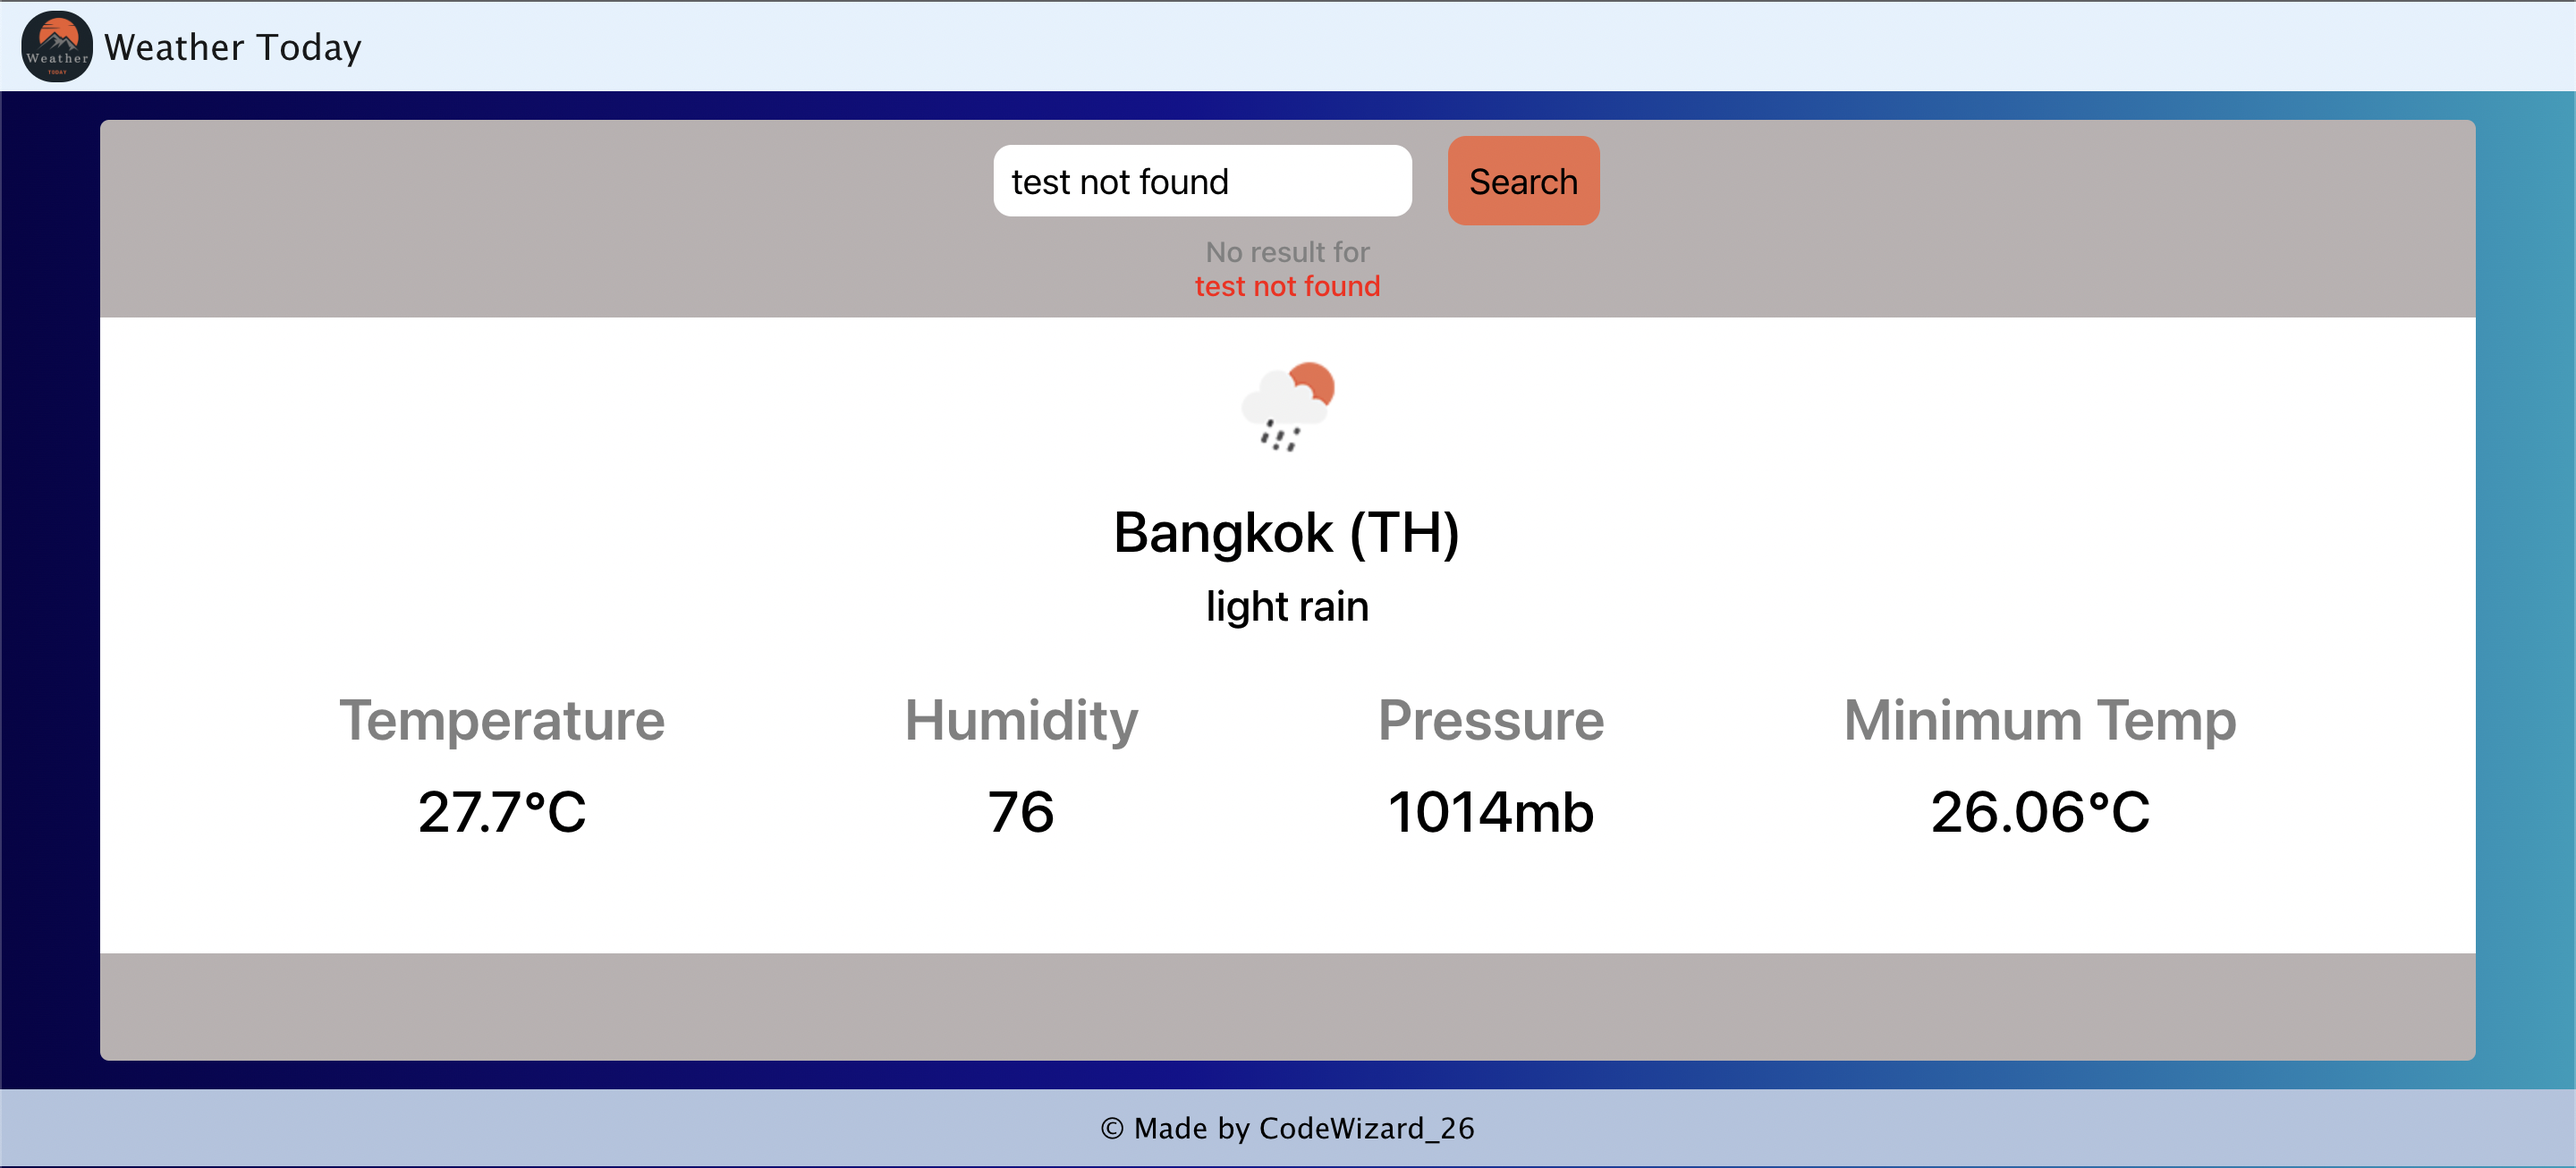
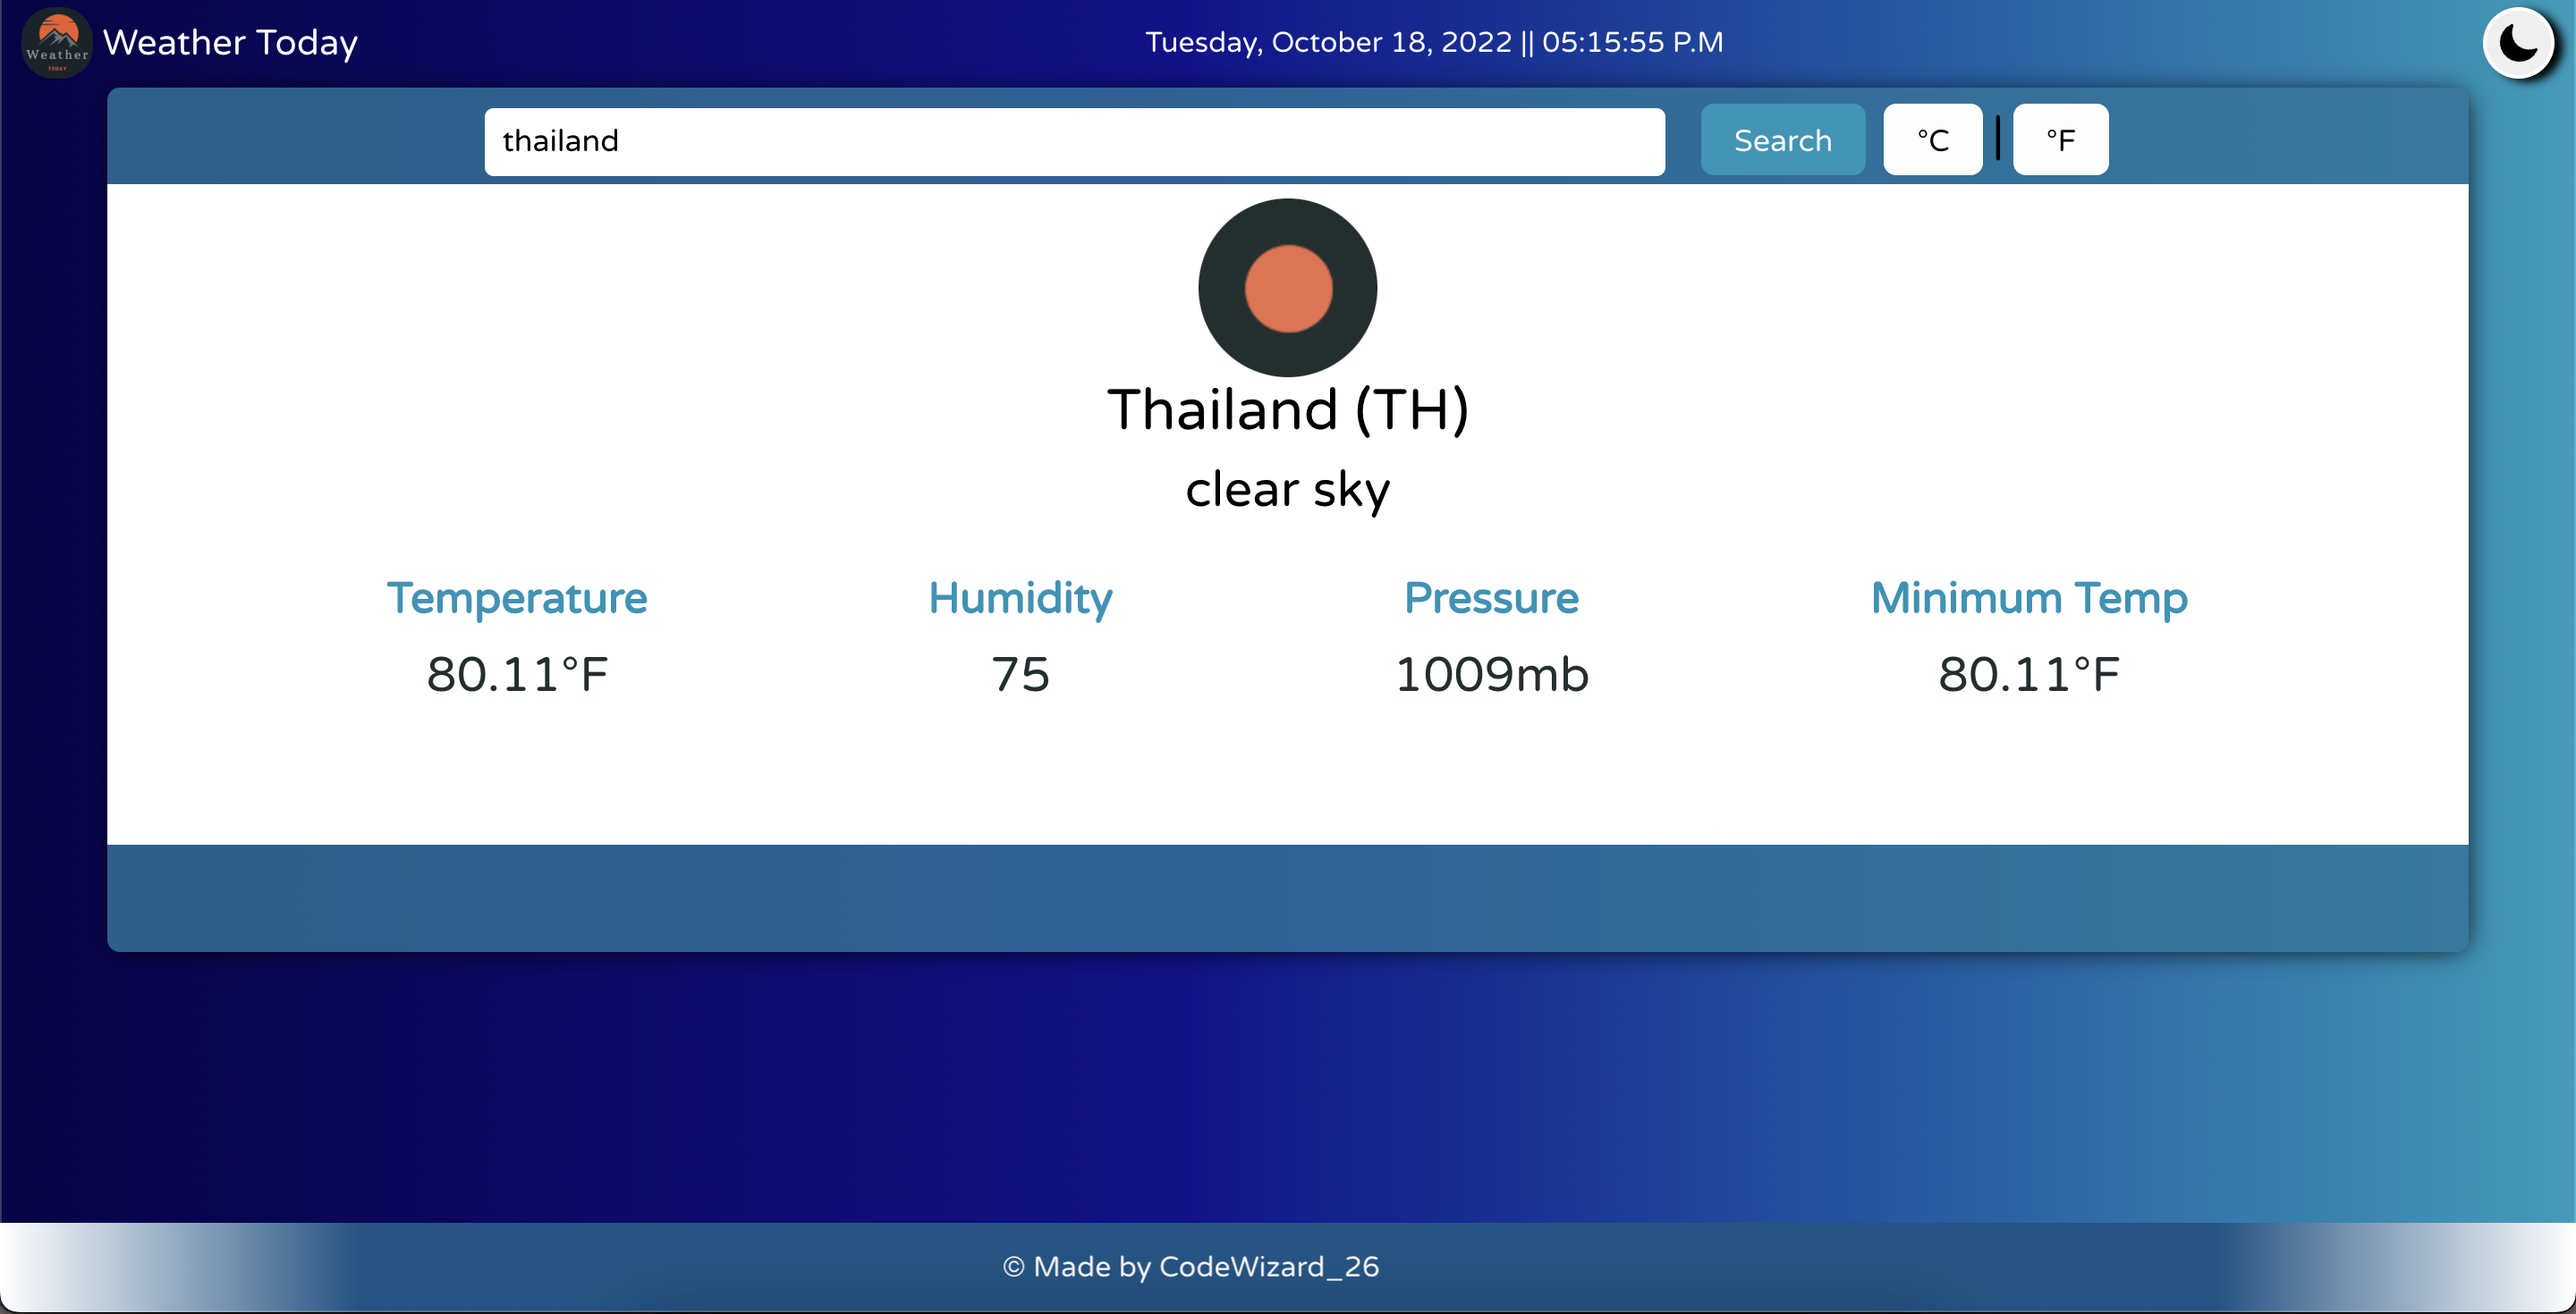
feat: can switch units system

diff --git a/src/components/WeatherData.js b/src/components/WeatherData.js
@@ -1,53 +1,63 @@
-import React from "react";
-import { useModeContext } from "../contexts/mode";
+import React from "react"
+import { useModeContext } from "../contexts/mode"
+
+const unit = {
+	metric: '°C',
+	imperial: '°F'
+}
+
 
 const WeatherData = (props) => {
 	const {
-		city,
+		WeatherData,
+		unitSystem
+	} = props
+	const { city,
 		icon,
 		country,
 		description,
 		temperature,
 		humidity,
 		pressure,
-		min_temp,
-	} = props.WeatherData;
-	const {mode} = useModeContext();
+		min_temp } = WeatherData
+	const { mode } = useModeContext()
+
+	const renderUnit = () => unit[unitSystem] ?? '-'
 
 	return (
-		<div className={`${mode?'dark data-mb':'data data-mb'} `}>
+		<div className={`${mode ? 'dark data-mb' : 'data data-mb'} `}>
 			<img
-				className={`${mode?'dark-img':'dataIcon'}`}
+				className={`${mode ? 'dark-img' : 'dataIcon'}`}
 				alt="icon"
-				src={"http://openweathermap.org/img/wn/" + icon + "@2x.png" }
+				src={"http://openweathermap.org/img/wn/" + icon + "@2x.png"}
 			></img>
 
 			<h1 className="location">
 				{city} ({country})
 			</h1>
 
-			<h3 className={`${mode?'dark':''}`}>{description}</h3>
+			<h3 className={`${mode ? 'dark' : ''}`}>{description}</h3>
 
 			<div className="weather-description">
 				<div>
 					<h3 >Temperature</h3>
-					<p className={`${mode?'dark-text':'value'}`}>{temperature}°C</p>
+					<p className={`${mode ? 'dark-text' : 'value'}`}>{temperature}{renderUnit()}</p>
 				</div>
 				<div>
 					<h3>Humidity</h3>
-					<p className={`${mode?'dark-text':'value'}`}>{humidity}</p>
+					<p className={`${mode ? 'dark-text' : 'value'}`}>{humidity}</p>
 				</div>
 				<div>
 					<h3>Pressure</h3>
-					<p className={`${mode?'dark-text':'value'}`}>{pressure}mb</p>
+					<p className={`${mode ? 'dark-text' : 'value'}`}>{pressure}mb</p>
 				</div>
 				<div>
 					<h3>Minimum Temp</h3>
-					<p className={`${mode?'dark-text':'value'}`}>{min_temp}°C</p>
+					<p className={`${mode ? 'dark-text' : 'value'}`}>{min_temp}{renderUnit()}</p>
 				</div>
 			</div>
 		</div>
-	);
-};
+	)
+}
 
-export default WeatherData;
+export default WeatherData

diff --git a/src/App.js b/src/App.js
@@ -27,11 +27,12 @@ function App() {
 	const [isNoResult, setIsNoResult] = useState(false);
 	const [loading, setLoading] = useState(false);
 	const [dateAndTime, setDateAndTime] = useState("");
+	const [unitSystem, setUnitSystem] = useState('metric')
 	const { location: currentLocation, error: currentError } = useCurrentLocation(geolocationOptions);
 
 	useEffect(() => {
-		if (search) fetchData();
-	}, []);
+		if (search && unitSystem) fetchData(search);
+	}, [unitSystem]);
 
 	useEffect(() => {
 		console.log(currentLocation, currentError)
@@ -52,7 +53,7 @@ function App() {
 			setLoading(true);
 			if (isNoResult) setIsNoResult(false);
 			const result = await axios.get(
-				`https://api.openweathermap.org/data/2.5/weather?lat=${currentLocation.latitude}&lon=${currentLocation.longitude}&units=metric&appid=${APIKEY}`
+				`https://api.openweathermap.org/data/2.5/weather?lat=${currentLocation.latitude}&lon=${currentLocation.longitude}&units=${unitSystem}&appid=${APIKEY}`
 			);
 
 			await setAllData({
@@ -81,7 +82,7 @@ function App() {
 			setLoading(true);
 			if (isNoResult) setIsNoResult(false);
 			const result = await axios.get(
-				`https://api.openweathermap.org/data/2.5/weather?q=${city}&units=metric&appid=${APIKEY}`
+				`https://api.openweathermap.org/data/2.5/weather?q=${city}&units=${unitSystem}&appid=${APIKEY}`
 			);
 
 			await setAllData({
@@ -147,6 +148,7 @@ function App() {
 								handleChange={handleChange}
 								search={search}
 								handleSubmit={handleSubmit}
+								setUnitSystem={setUnitSystem}
 							/>
 
 							{isNoResult && notFoundSearch && !invalidSearch && (
@@ -154,7 +156,7 @@ function App() {
 							)}
 
 							{invalidSearch && <h6 className="notFoundText">{invalidSearch}</h6>}
-							<WeatherData WeatherData={allData} />
+							<WeatherData WeatherData={allData} unitSystem={unitSystem} />
 						</div>
 					</section>
 				</div>

diff --git a/src/components/InputForm.js b/src/components/InputForm.js
@@ -1,32 +1,41 @@
-import React from "react";
-import { useModeContext } from "../contexts/mode";
+import React from "react"
+import { useModeContext } from "../contexts/mode"
 
 const InputForm = (props) => {
-	const { loading, handleChange, search, handleSubmit } = props;
-	const {mode,setMode} = useModeContext();
+	const { loading, handleChange, search, handleSubmit, setUnitSystem } = props
+	const { mode } = useModeContext()
 
 	return (
-		<form className={`${mode?'dark':''} "locationForm"` }>
-			<input
-				disabled={loading}
-				className={`${mode?'dark dark-text':''} input`}
-				type="text"
-				placeholder="Location"
-				onChange={handleChange}
-				name="city"
-				value={search}
-				
-			></input>
-			<button
-				className="button"
-				type="submit"
-				htmlFor="city"
-				onClick={handleSubmit}
-			>
-				{loading ? "Searching..." : "Search"}
-			</button>
-		</form>
-	);
-};
+		<>
+			<form className={`${mode ? 'dark' : ''} "locationForm"`}>
+				<input
+					disabled={loading}
+					className={`${mode ? 'dark dark-text' : ''} input`}
+					type="text"
+					placeholder="Location"
+					onChange={handleChange}
+					name="city"
+					value={search}
 
-export default InputForm;
+				></input>
+				<button
+					className="button"
+					type="submit"
+					htmlFor="city"
+					onClick={handleSubmit}
+				>
+					{loading ? "Searching..." : "Search"}
+				</button>
+				<button disabled={!search} className="button-system" type="button" onClick={() => setUnitSystem('metric')}>
+					°C
+				</button>
+				|
+				<button disabled={!search} className="button-system" type="button" onClick={() => setUnitSystem('imperial')}>
+					°F
+				</button>
+			</form>
+		</>
+	)
+}
+
+export default InputForm

diff --git a/src/contexts/mode.js b/src/contexts/mode.js
@@ -1,21 +1,21 @@
-import {useState,createContext, useContext} from 'react'
+import { useState, createContext, useContext } from 'react'
 
 
 // Context Creation for Setting the dark mode
-const ModeContext = createContext();
+const ModeContext = createContext()
 
-const ModeContextProvider = ({children}) => {
-    const [mode,setMode] = useState(false);
+const ModeContextProvider = ({ children }) => {
+    const [mode, setMode] = useState(false)
 
     return (
-        <ModeContext.Provider value={{mode,setMode}}>
+        <ModeContext.Provider value={{ mode, setMode }}>
             {children}
         </ModeContext.Provider>
     )
 }
 
- export const useModeContext = () => {
+export const useModeContext = () => {
     return useContext(ModeContext)
 }
 
-export default ModeContextProvider;
+export default ModeContextProvider

diff --git a/src/App.css b/src/App.css
@@ -58,6 +58,25 @@ button:hover {
   border-color: rgb(6 150 185);
 }
 
+.button-system {
+  outline: none;
+  border: transparent 1px;
+  padding: 8px 18px;
+  height: 40px;
+  margin: 5px;
+  font-size: 17px;
+  background-color: rgb(253, 253, 253);
+  border-radius: 7px;
+  color: #040404;
+  border: 0.5px solid transparent;
+  transition: all 0.5s cubic-bezier(0.19, 1, 0.22, 1);
+}
+
+.button-system:hover {
+  background-color: transparent;
+  background-color: rgb(196 196 196);
+}
+
 .locationForm {
   display: flex;
   justify-content: center;
